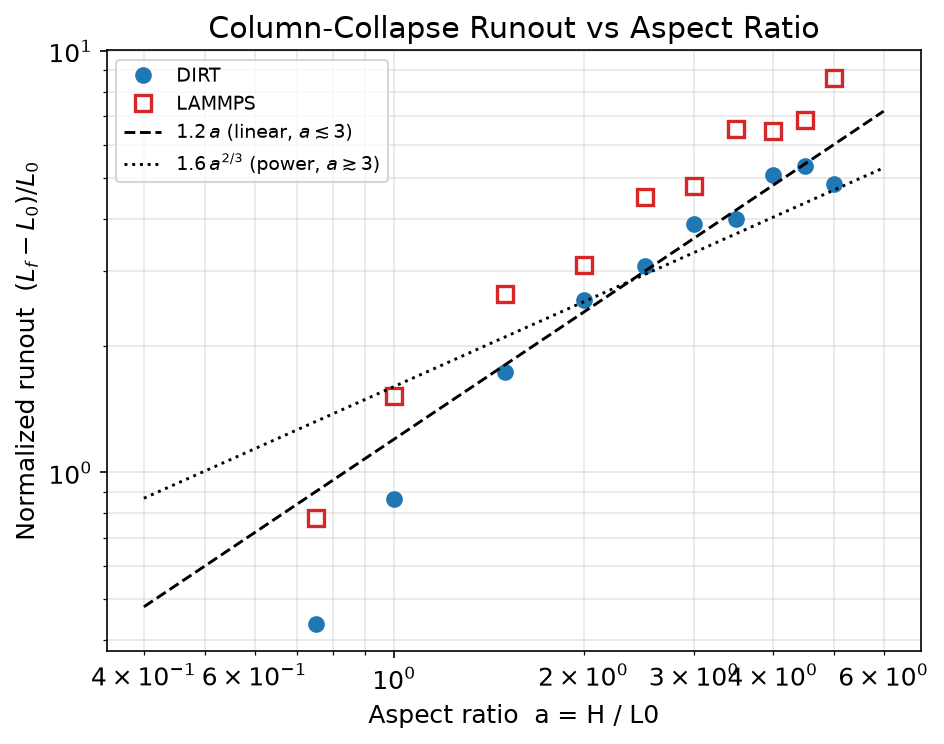
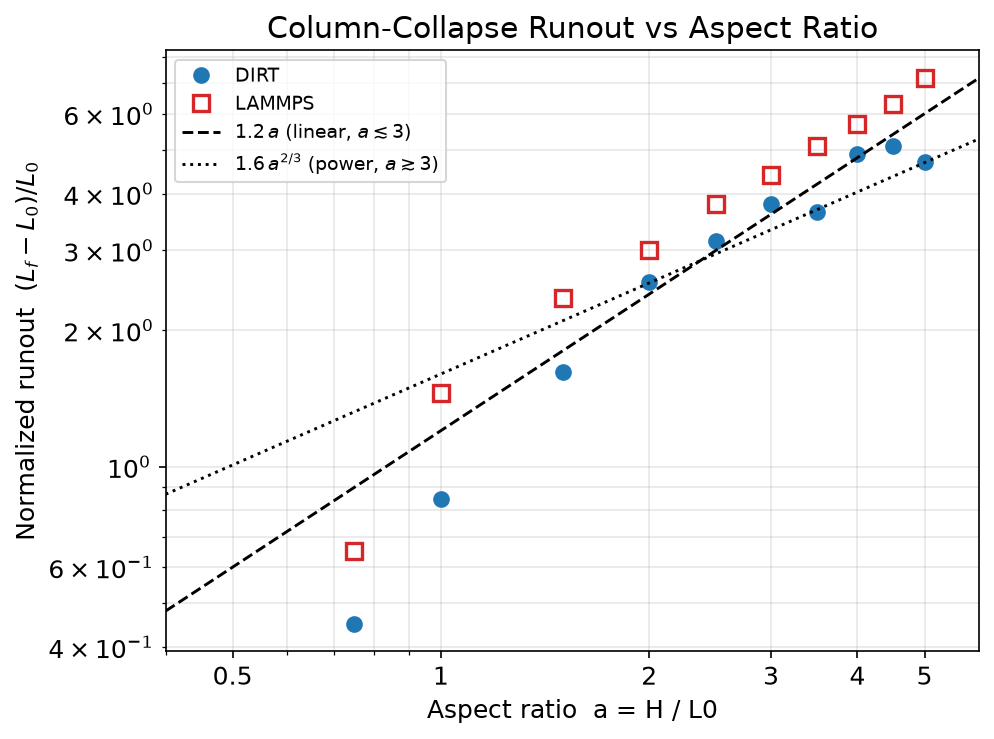
Fix column collapse runout tick labels
Use explicit log-axis major ticks and suppress minor tick labels on the runout scaling x-axis, then regenerate the plot.

diff --git a/examples/bench_column_collapse/sweep.py b/examples/bench_column_collapse/sweep.py
@@ -744,6 +744,7 @@ def plot(rows, lammps_rows=None):
         import matplotlib
         matplotlib.use("Agg")
         import matplotlib.pyplot as plt
+        import matplotlib.ticker as mticker
     except Exception as e:
         print(f"\n(matplotlib/numpy unavailable, skipped plots: {e})")
         return
@@ -768,6 +769,11 @@ def plot(rows, lammps_rows=None):
             label=r"$1.6\,a^{2/3}$ (power, $a\gtrsim3$)")
     ax.set_xscale("log")
     ax.set_yscale("log")
+    ax.set_xlim(0.4, 6.0)
+    ax.xaxis.set_major_locator(mticker.FixedLocator([0.5, 1.0, 2.0, 3.0, 4.0, 5.0]))
+    ax.xaxis.set_major_formatter(mticker.FormatStrFormatter("%g"))
+    ax.xaxis.set_minor_locator(mticker.LogLocator(base=10.0, subs=np.arange(2, 10) * 0.1))
+    ax.xaxis.set_minor_formatter(mticker.NullFormatter())
     ax.set_xlabel("Aspect ratio  a = H / L0")
     ax.set_ylabel(r"Normalized runout  $(L_f - L_0)/L_0$")
     ax.set_title("Column-Collapse Runout vs Aspect Ratio")
